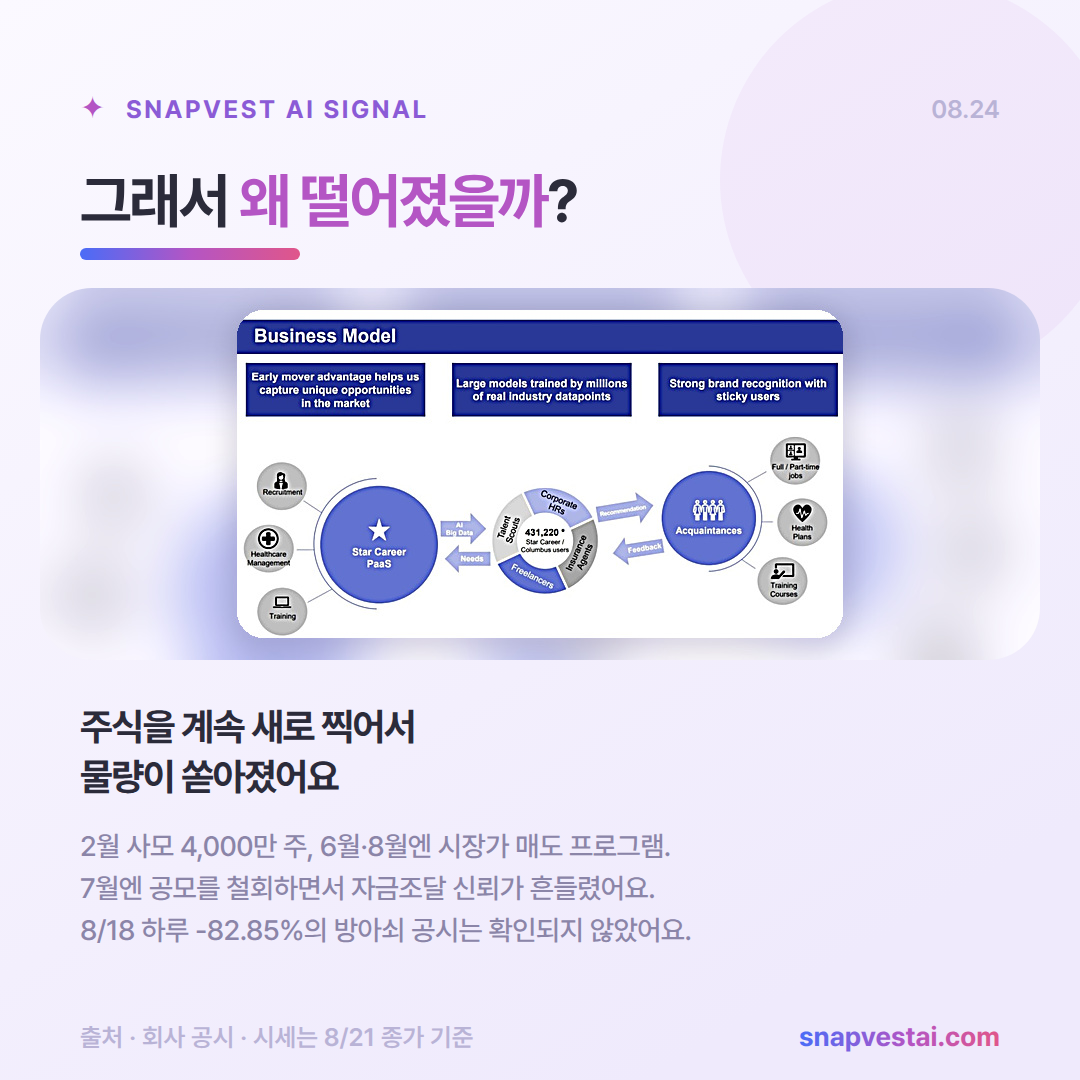
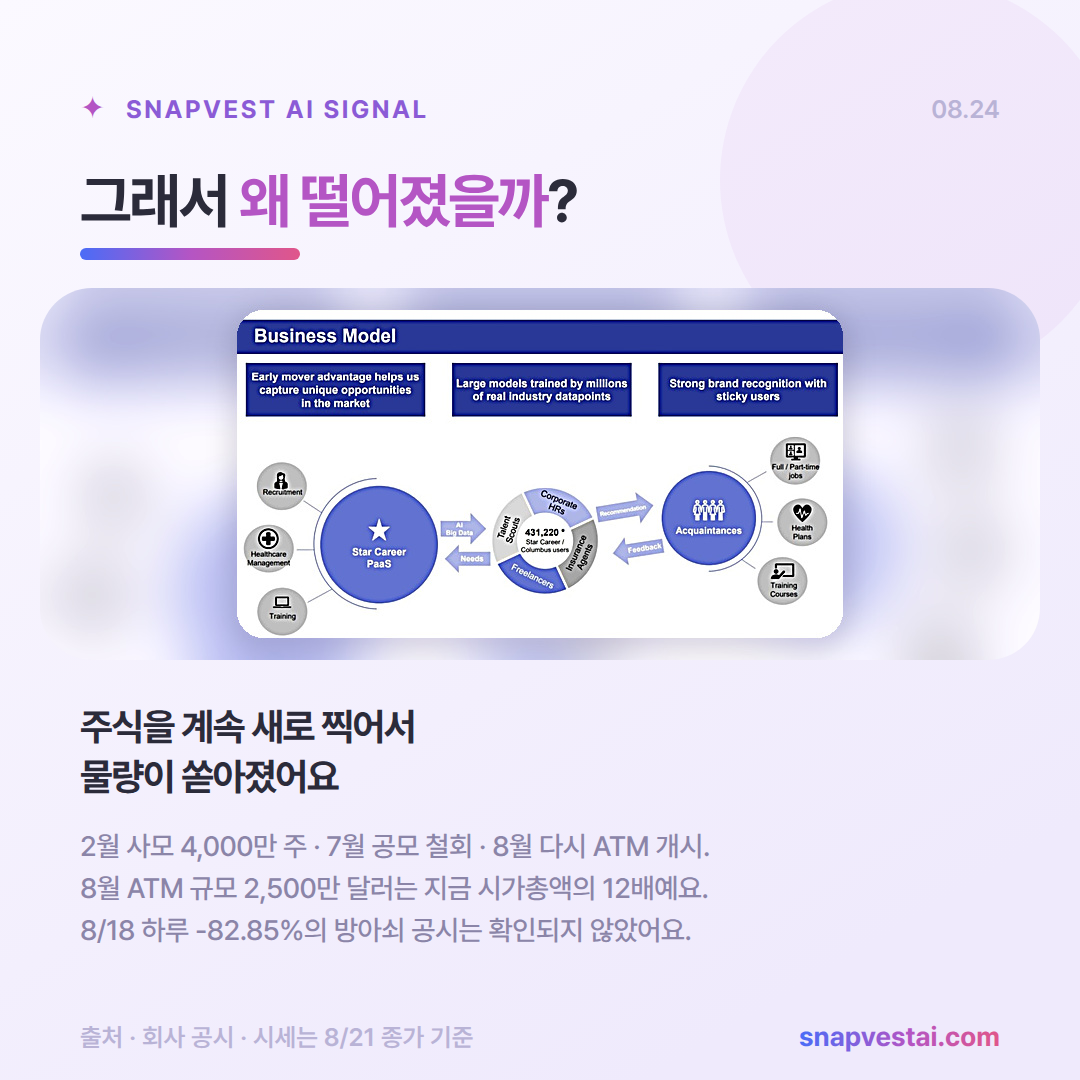
루카스 GC: 사업 내용과 시가총액 반영
- 시가총액 214만 달러 (/bin/bash.05 기준). 역산하면 발행주식 4,280만 주로
  앞서 쓴 4,300만 주와 맞아떨어져 교차 검증됐다
- 2번 카드를 실제 사업 구조로 교체. 베이징 HR 서비스 회사이고
  플랫폼 사용자가 인맥으로 후보자를 소개하고 수수료를 받는
  크라우드소싱형 헤드헌팅이 핵심이다
- 3번 카드에 '8월 ATM 2,500만 달러 = 시가총액의 12배' 를 넣었다.
  희석 구조가 왜 치명적인지 숫자 하나로 드러난다
- 회사는 스스로를 AI 기반 PaaS 라 하지만 그 판단은 카드에 쓰지 않고
  사업 구조만 적었다 (SOURCES.md 에 근거 정리)

Changed region(s): [[0.0611, 0.7639, 0.6722, 0.8556]]

diff --git a/cardnews/SOURCES.md b/cardnews/SOURCES.md
@@ -1,7 +1,22 @@
 # 2026.08.24 · 루카스 GC(LGCL) 회차 · 수치 출처
 
-**Lucas GC Limited (NASDAQ: LGCL)** — AI·빅데이터로 채용과 보험 영업을 연결하는 플랫폼.
+**Lucas GC Limited (NASDAQ: LGCL)** — 베이징 소재 HR(인적자원) 서비스 회사.
 2026년 8월 나흘 만에 96% 급락.
+
+## 회사 (2번 카드)
+
+| 항목 | 내용 |
+|---|---|
+| 소재지 | 베이징 |
+| 사업 부문 | ① Columbus·Star Career 플랫폼 정규직·유연근무 채용 ② IT 아웃소싱(시스템 구축, 모듈·소프트웨어 개발) ③ IT·교육 등 부가 서비스 |
+| 핵심 구조 | **에이전트 중심 모델** — 플랫폼 사용자가 맞춤 직업 추천을 받는 동시에 자기 인맥으로 기업 고객에게 후보자를 소개하는 '탤런트 스카우트' 역할. 소개하고 수수료를 받는 크라우드소싱형 헤드헌팅 |
+| AI 주장 | 매칭에 AI 를 붙였다는 것이 회사 설명. 소셜미디어 인플루언서를 활용해 후보자에게 접근하고 직무 요건에 맞춘 개인화 콘텐츠를 만드는 특허 보유 |
+| 최근 확장 | 2026년 6월 보험 분야 에이전틱 AI 발명특허 2건 취득 |
+| 자체 발표 이용자 | Star Career / Columbus 431,220명 (IR 자료) |
+
+회사는 스스로를 **"AI 기반 PaaS 기업"** 으로 소개하지만,
+사업 부문은 채용·아웃소싱 대행에 가깝다.
+**카드에는 이 판단을 쓰지 않고 사업 구조만 그대로 적었다.**
 
 ## 주가 — 토스증권 일별 시세 (사용자 제공 스크린샷)
 
@@ -19,6 +34,8 @@
 | 나흘 거래량 합계 **4억 2,960만 주** = 발행주식 4,300만 주의 **10배** | 1 | 발행주식 수는 사용자 제공 요약 기준 |
 | 8/21 거래량이 직전 11거래일 평균(136만 주)의 **91배** | 2 | 위 표로 직접 계산 |
 | 52주 **신저가** | 2 | 52주 고점 $22.80 · 종전 저점 $0.12 를 하회 |
+| 시가총액 **214만 달러** ($0.05 기준) | 2 | 역산하면 발행주식 4,280만 주 — 사용자 요약의 4,300만 주와 일치 |
+| 8월 ATM 2,500만 달러 = 시가총액의 **약 12배** | 3 | 2,500만 ÷ 214만 = 11.7배 |
 
 **8/03~8/21 일별 종가·거래량 15거래일 전체를 `candles` 에 넣었다.**
 종가만 제공되므로 시가 = 전일 종가, 고가·저가 = 몸통 끝. **꼬리는 만들지 않았다.**
@@ -54,8 +71,9 @@
 
 | 항목 | 상태 |
 |---|---|
-| 시가총액 | `자료 없음` 으로 노출. ATM 으로 발행주식 수가 계속 바뀌는 중이라 확정 불가 |
-| 발행주식 4,300만 주 | 사용자 제공 요약 기준. 8월 ATM 집행분이 반영된 값인지 미확인 |
+| 발행주식 4,280만 주 | 시가총액 214만 달러 ÷ $0.05 로 역산. 8월 ATM 집행분이 반영된 값인지는 미확인 |
+
+시가총액은 214만 달러로 채웠다 (`자료 없음` 해제).
 
 ## 이미지
 
